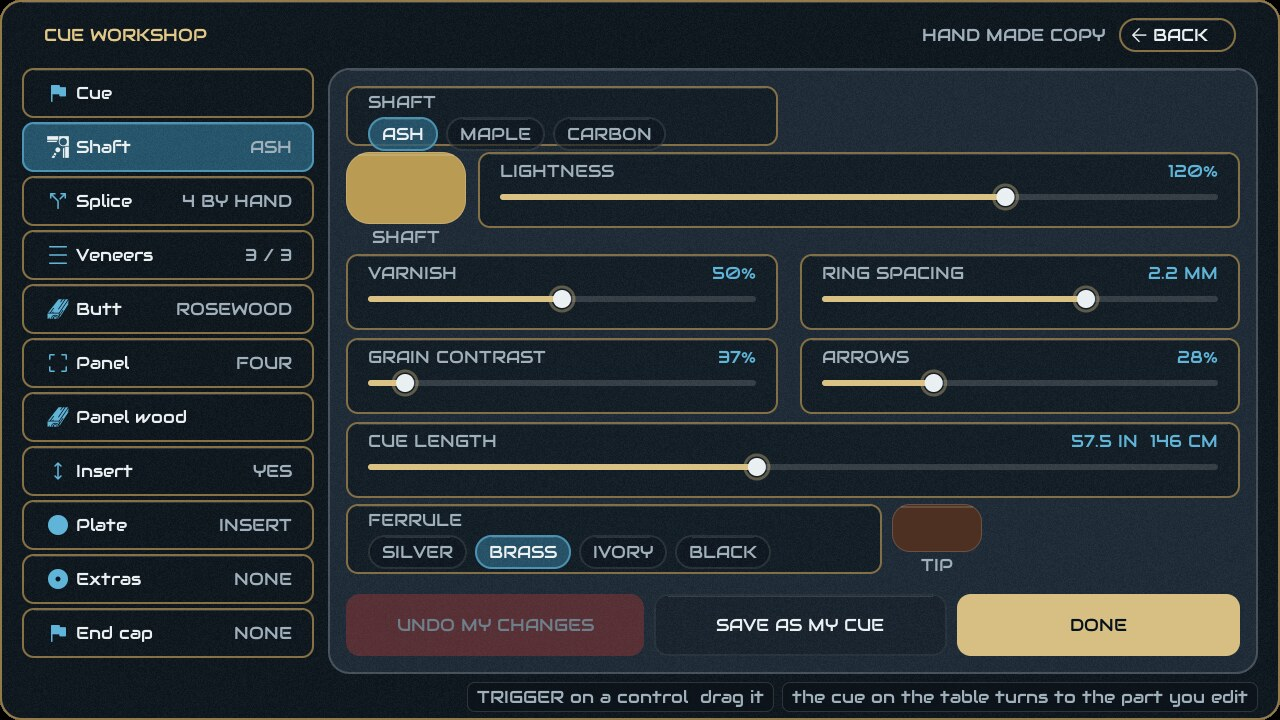
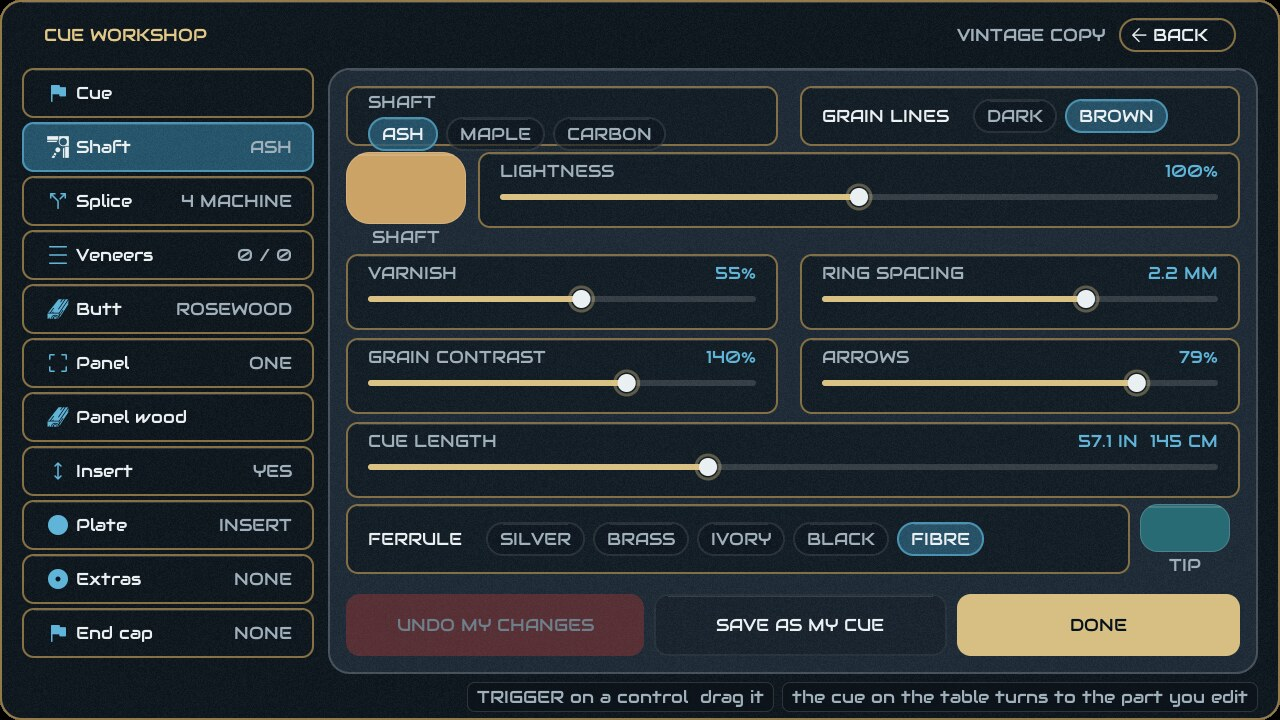
Guide: 5.3.2 -- VINTAGE in the rack and close up, every cue and workshop page re-shot, the fibre ferrule, ringed collar, boxwood plate, lion and gothic lettering

diff --git a/docs/cuevr-guide.html b/docs/cuevr-guide.html
@@ -189,7 +189,7 @@
       <span class="badge">32 GAMES</span>
       <span class="badge">10 BED SHAPES</span>
       <span class="badge">8 OPPONENTS</span>
-      <span class="badge">22 CUES</span>
+      <span class="badge">23 CUES</span>
       <span class="badge">PRO / TOURNAMENT / CLUB</span>
       <span class="badge">BUILD YOUR OWN TABLE</span>
       <span class="badge">PLAY A FRIEND</span>
@@ -2530,7 +2530,7 @@
     <tr><td><b>BALLS</b> (the strip)</td><td>Which set of balls is racked. Twenty-one sets. The
       chips on the same card also set whether the cue ball carries <b>measle spots</b> — with them
       on you can see what the white is doing, how much it is spinning and which way.</td></tr>
-    <tr><td><b>CUE</b> (the strip)</td><td>Your cue, from a rack of twenty-two or your own.</td></tr>
+    <tr><td><b>CUE</b> (the strip)</td><td>Your cue, from a rack of twenty-three or your own.</td></tr>
     <tr><td><b>Environment &rarr; Lighting</b></td><td>The light rig over the table.</td></tr>
     <tr><td><b>Environment &rarr; Surroundings</b></td><td>Your own room, a dark hall, or an arena.
       Also three chips on the pause menu, since that is the one you change mid-frame.</td></tr>
@@ -3222,7 +3222,7 @@
 
 <section id="cues">
   <h2>Cues</h2>
-  <p class="lede">Twenty-two cues, each made the way a real one is. Your choice is saved, and in an
+  <p class="lede">Twenty-three cues, each made the way a real one is. Your choice is saved, and in an
   online match your opponent sees the cue in your hands exactly as you built it.</p>
 
   <div class="rack">
@@ -3248,6 +3248,7 @@
     <div class="row"><div class="nm">CARBON</div><img src="img/cuevr/cue19.jpg" alt="Carbon cue"></div>
     <div class="row"><div class="nm">JUBILEE</div><img src="img/cuevr/cue20.jpg" alt="Jubilee cue"></div>
     <div class="row"><div class="nm">ST GEORGE</div><img src="img/cuevr/cue21.jpg" alt="St George cue"></div>
+    <div class="row"><div class="nm">VINTAGE</div><img src="img/cuevr/cue22.jpg" alt="Vintage cue"></div>
   </div>
 
   <h3>Close up</h3>
@@ -3277,6 +3278,7 @@
     <figure><img src="img/cuevr/cue19-butt.jpg" alt="The butt of the Carbon cue"><figcaption>CARBON</figcaption></figure>
     <figure><img src="img/cuevr/cue20-butt.jpg" alt="The butt of the Jubilee cue"><figcaption>JUBILEE</figcaption></figure>
     <figure><img src="img/cuevr/cue21-butt.jpg" alt="The butt of the St George cue"><figcaption>ST GEORGE</figcaption></figure>
+    <figure><img src="img/cuevr/cue22-butt.jpg" alt="The butt of the Vintage cue"><figcaption>VINTAGE</figcaption></figure>
   </div>
 
   <h3>Building your own</h3>
@@ -3295,15 +3297,16 @@
     <tr><td><b>Cue</b></td><td>The name, and which cue you start from: any rack cue, or one of your
       own.</td></tr>
     <tr><td><b>Shaft</b></td><td>The timber (ash, maple, birdseye, flame or carbon), its colour and
-      lightness, the ring spacing, contrast and arrows of the grain, the ferrule, the tip, the
-      varnish and the cue's length.</td></tr>
+      lightness, the ring spacing, contrast and arrows of the grain, whether the grain lines are dark
+      or brown, the ferrule (silver, brass, ivory, black or red-brown fibre), the tip, the varnish and
+      the cue's length.</td></tr>
     <tr><td><b>Splice</b></td><td>How many points (none, 4, 6 or 8), by hand or by machine, how long
       they are, where the splice sits, how round the tips are and how long the veneers' crescents
       run.</td></tr>
     <tr><td><b>Veneers</b></td><td>Up to eight veneers under the points and round the panel, each with
       its own colour and thickness. The points and the panel are set separately.</td></tr>
     <tr><td><b>Butt</b></td><td>The butt timber, its figure and lightness, and the collar: brass,
-      silver, black or ivory, its width and where it sits.</td></tr>
+      silver, black, ivory, or ivory with a brass ring each side; its width and where it sits.</td></tr>
     <tr><td><b>Panel</b></td><td>No panel, one on the front, or four round the butt; how long and wide
       they are, how they spread into the butt, an inner panel set back inside, and a cross band and
       stripe let in across them.</td></tr>
@@ -3311,9 +3314,10 @@
       pearl, and its lightness.</td></tr>
     <tr><td><b>Insert</b></td><td>A block of another material at the end of the panel: its length and
       the shape of its top, and the flat on the butt that the plate sits in.</td></tr>
-    <tr><td><b>Plate</b></td><td>The maker's plate: its shape, what it is made of, the screws or pins,
-      a border, the emblem and the lettering. Lettering can be all capitals, or fill the plate's
-      width.</td></tr>
+    <tr><td><b>Plate</b></td><td>The maker's plate: its shape, what it is made of (ivory, enamel,
+      brass, silver, black and gold, or boxwood), the screws or pins, a border, the emblem (a lion
+      among them) and the lettering, in serif, the game's own, sans or gothic. Lettering can be all
+      capitals, or fill the plate's width.</td></tr>
     <tr><td><b>Extras</b></td><td>For a pool cue: a linen wrap, a butt sleeve, rings and
       inlays.</td></tr>
     <tr><td><b>End cap</b></td><td>A capped butt with rings, and a flag or disc on the end.</td></tr>
